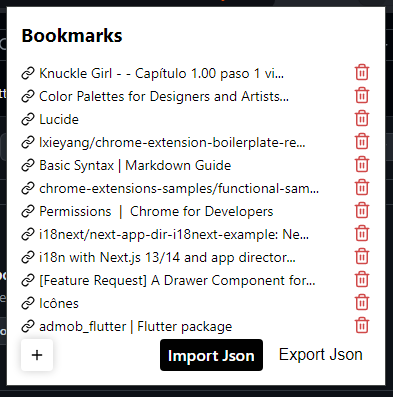
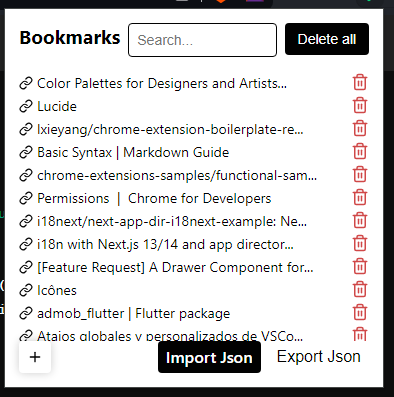
add filter and delete all

Changed region(s): [[0.0, 0.0, 1.0, 0.9975]]

diff --git a/src/hooks/useArchive.js b/src/hooks/useArchive.js
@@ -1,16 +1,25 @@
-import { post } from "../libs/api";
+import { useMemo, useState } from "react";
 import useArchiveStore from "../stores/archives"
-import useAuthStore from "../stores/auth";
 import { v4 as uuidv4 } from 'uuid';
+import { set } from "react-hook-form";
 
 export const useArchive = () => {
-    const isAuthenticated = useAuthStore(state => state.isAuthenticated);
-    const user = useAuthStore(state => state.user);
+    const [search, setSearch] = useState('');
 
     const archives = useArchiveStore(state => state.archives);
     const remove = useArchiveStore(state => state.remove);
     const add = useArchiveStore(state => state.add);
     const syncJson = useArchiveStore(state => state.syncJson);
+    const removeAllArchives = useArchiveStore(state => state.removeAll);
+
+    const results = useMemo(() => {
+        if(search === '') return archives;
+        return archives.filter(archive => archive.title.toLowerCase().includes(search.toLowerCase()));
+    }, [archives, search])
+
+    const onSearch = (str) => {
+        setSearch(str);
+    }
 
     const downloadJson = () => {
         const dataStr = "data:text/json;charset=utf-8," + encodeURIComponent(JSON.stringify(archives));
@@ -60,13 +69,16 @@ export const useArchive = () => {
         remove(id)
     }
 
+    const removeAll = () => removeAllArchives()
+
     return {
-        archives,
         removeArchive,
         saveArchive,
-        isAuthenticated,
+        onSearch,
         downloadJson,
         importJson,
-        user
+        results,
+        removeAll,
+        search
     }
 }

diff --git a/src/pages/Popup/Home.jsx b/src/pages/Popup/Home.jsx
@@ -1,23 +1,18 @@
-import { FileJson, Plus } from 'lucide-react';
-import React, { useEffect, useState } from 'react'
-import { Link } from 'react-router-dom';
+import { Plus } from 'lucide-react';
+import React from 'react'
 import { useArchive } from '../../hooks/useArchive';
 import Note from '../../containers/UI/Note';
 
 function Home() {
   const {
-    isAuthenticated,
-    user,
-    // getArchives,
+    onSearch,
     saveArchive,
-    archives,
+    results,
     downloadJson,
-    importJson
+    importJson,
+    removeAll,
+    search
   } = useArchive();
-
-  useEffect(() => {
-    console.log(archives)
-  }, [])
 
   const saveLink = () => {
     
@@ -33,9 +28,17 @@ function Home() {
     <div className="popup">
       <header className="popup-header">
         <h4>Bookmarks</h4>
+        <input 
+        value={search}
+        onChange={(e) => onSearch(e.target.value)}
+        placeholder='Search...' />
+        <button className='delete_all' onClick={removeAll}>
+          Delete all
+        </button>
       </header>
       <div className='popup_body'>
-        {archives.length > 0 && archives.map(arch => (
+        
+        {results.length > 0 && results.map(arch => (
           <Note 
           key={arch.id}
           id={arch.id}

diff --git a/src/pages/Popup/popup.scss b/src/pages/Popup/popup.scss
@@ -6,10 +6,36 @@
     display: flex;
     flex-direction: column;
     .popup-header {
+        display: flex;
+        justify-content: space-between;
         padding-bottom: 16px;
+        gap: 8px;
+        .delete_all {
+            height: 32px;
+            width: 200px;
+            padding: 0 8px;
+            background: #010101;
+            color: #fff;
+            border-radius: 4px;
+            border: none;
+            font-size: 14px;
+        }
         h4 {
             font-size: 1.2rem;
             margin: 0;
+        }
+        input {
+            width: 100%;
+            height: 32px;
+            padding: 0 8px;
+            border: 1px solid #010101;
+            border-radius: 4px;
+            font-size: 14px;
+            &:focus {
+                outline: none;
+                border-radius: 4px;
+            }
+        
         }
     }
     .popup_body {

diff --git a/src/stores/archives.js b/src/stores/archives.js
@@ -22,6 +22,9 @@ const useArchiveStore = create(
       remove: (id) => {
         set({ archives: get().archives.filter((archive) => archive.id !== id)});
       },
+      removeAll: () => {
+        set({ archives: [] });
+      }
     }),
     {
       name: 'archives-storage',
